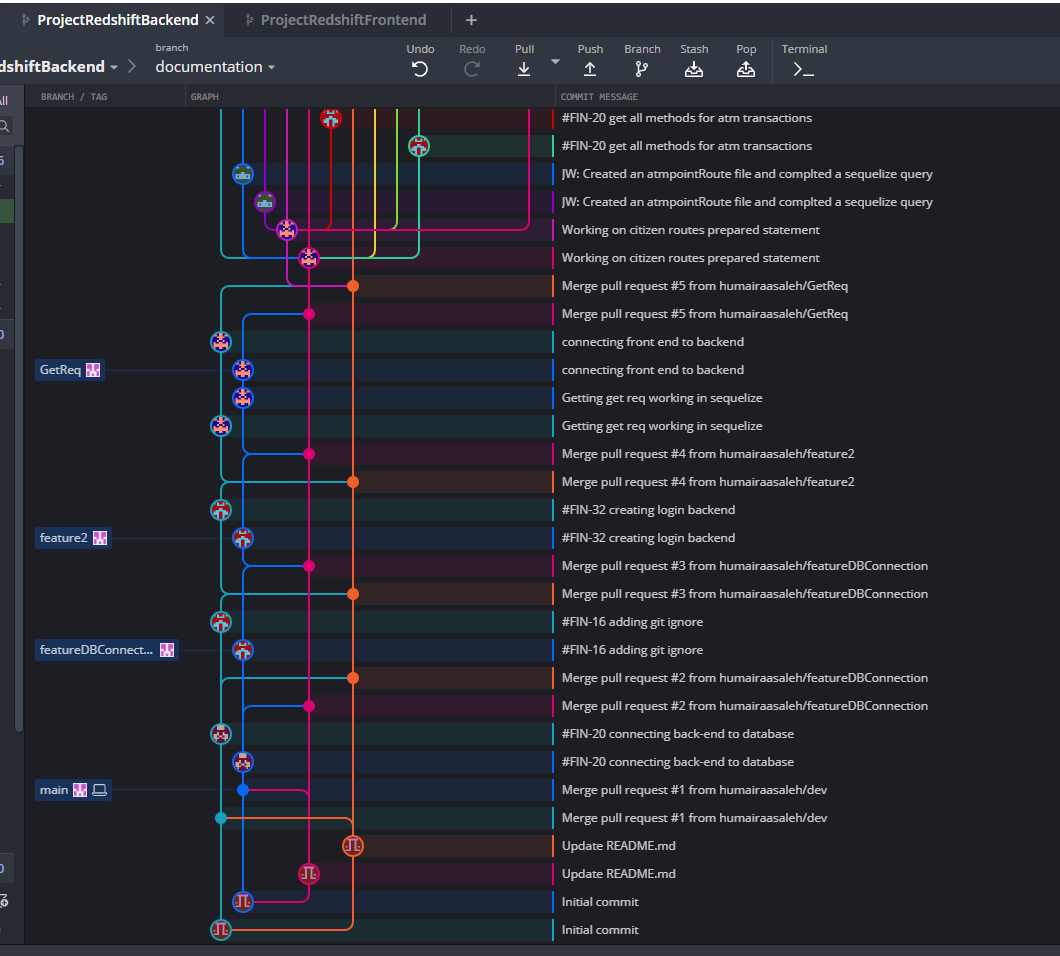
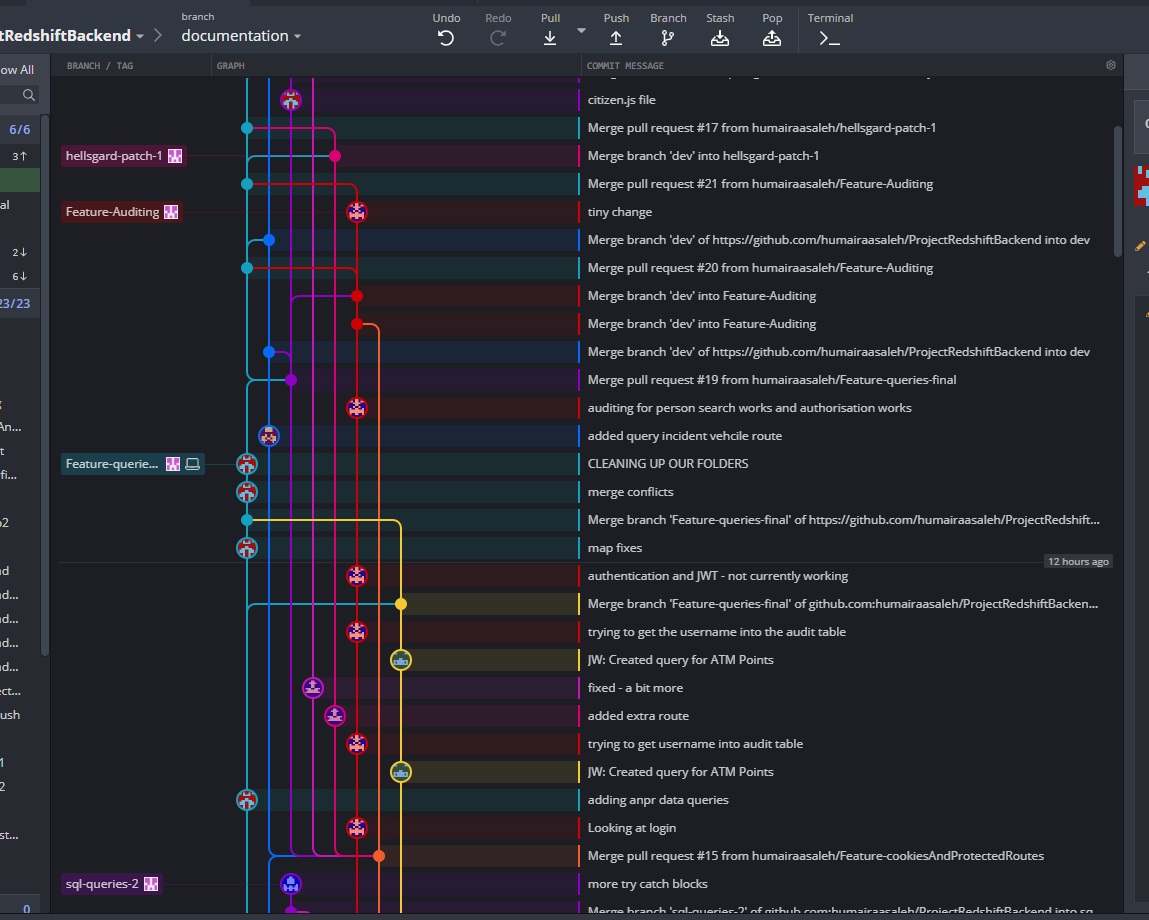
changes to readme

Changed region(s): [[0.0, 0.0, 1.0, 1.0], [0.0311, 0.7913, 0.1245, 0.8522], [0.0, 0.8826, 0.0311, 0.913]]

diff --git a/README.md b/README.md
@@ -52,7 +52,7 @@ We created a risk assessment to ensure we were prepared for any issues that coul
 *figure XXX: AWS setup and RDS*
 *figure XXX: Pandas scripts used for cleaning up the data*
 
-<img src="./documentation/images/frontendGraph.PNG" alt="picture">
+<img src="./documentation/images/backendGraph.PNG" alt="picture">
 
 *snippet of the back end repository network graph*
 
